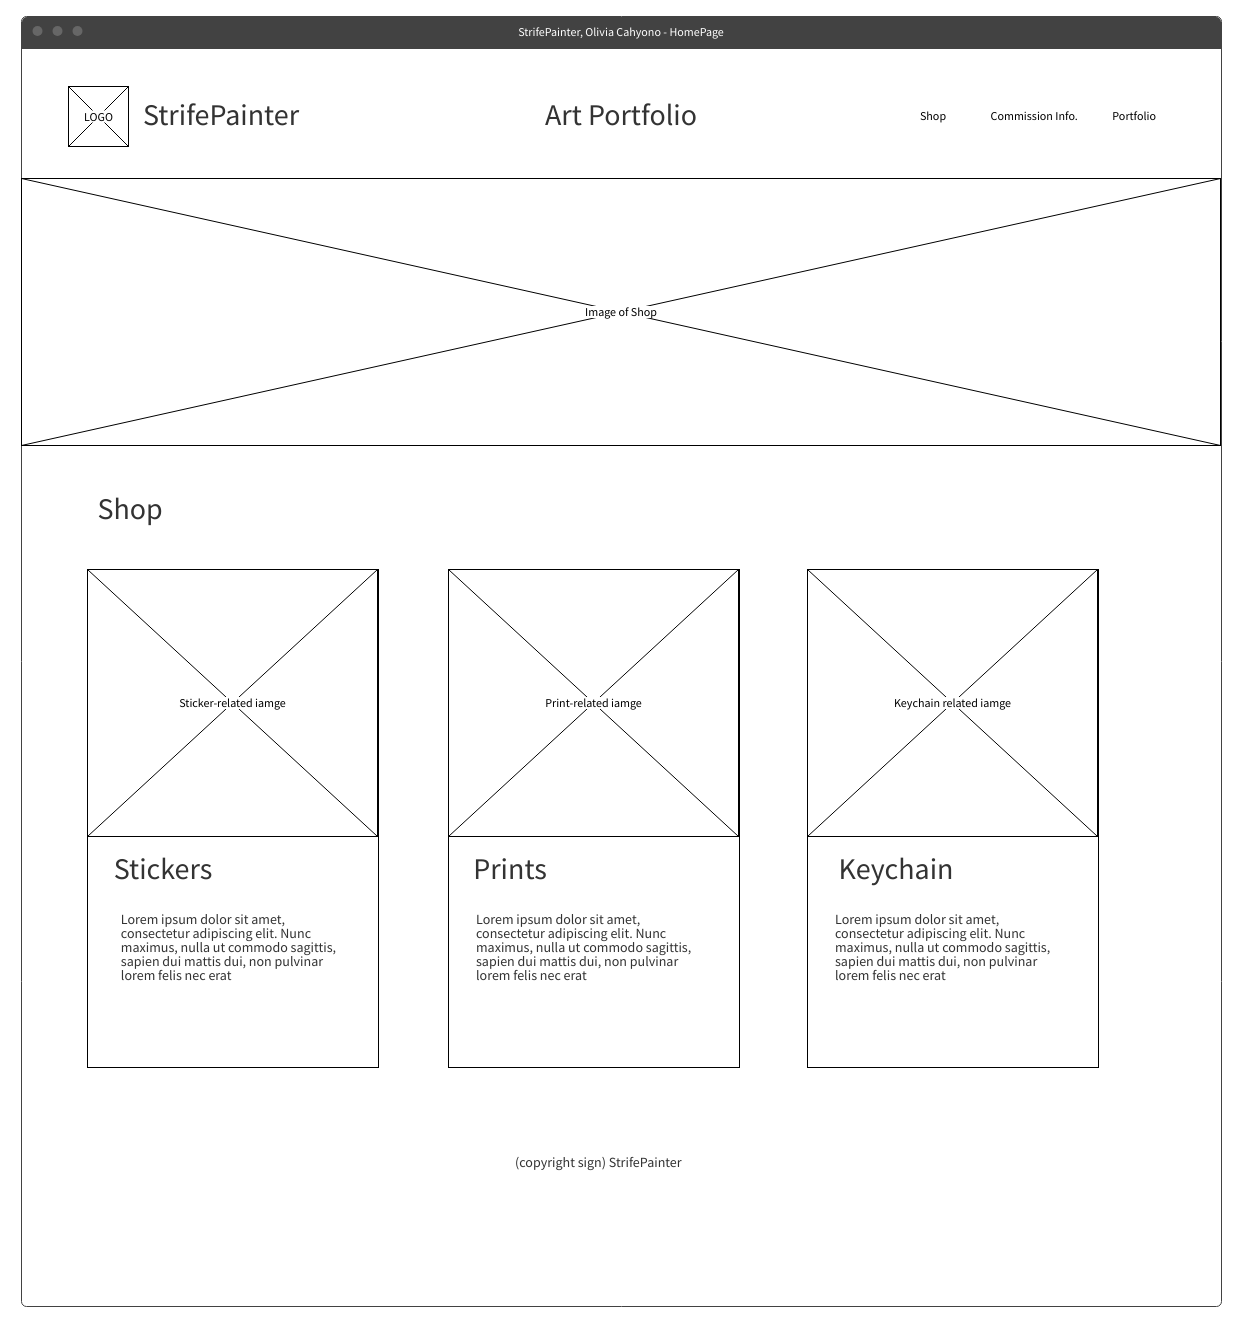
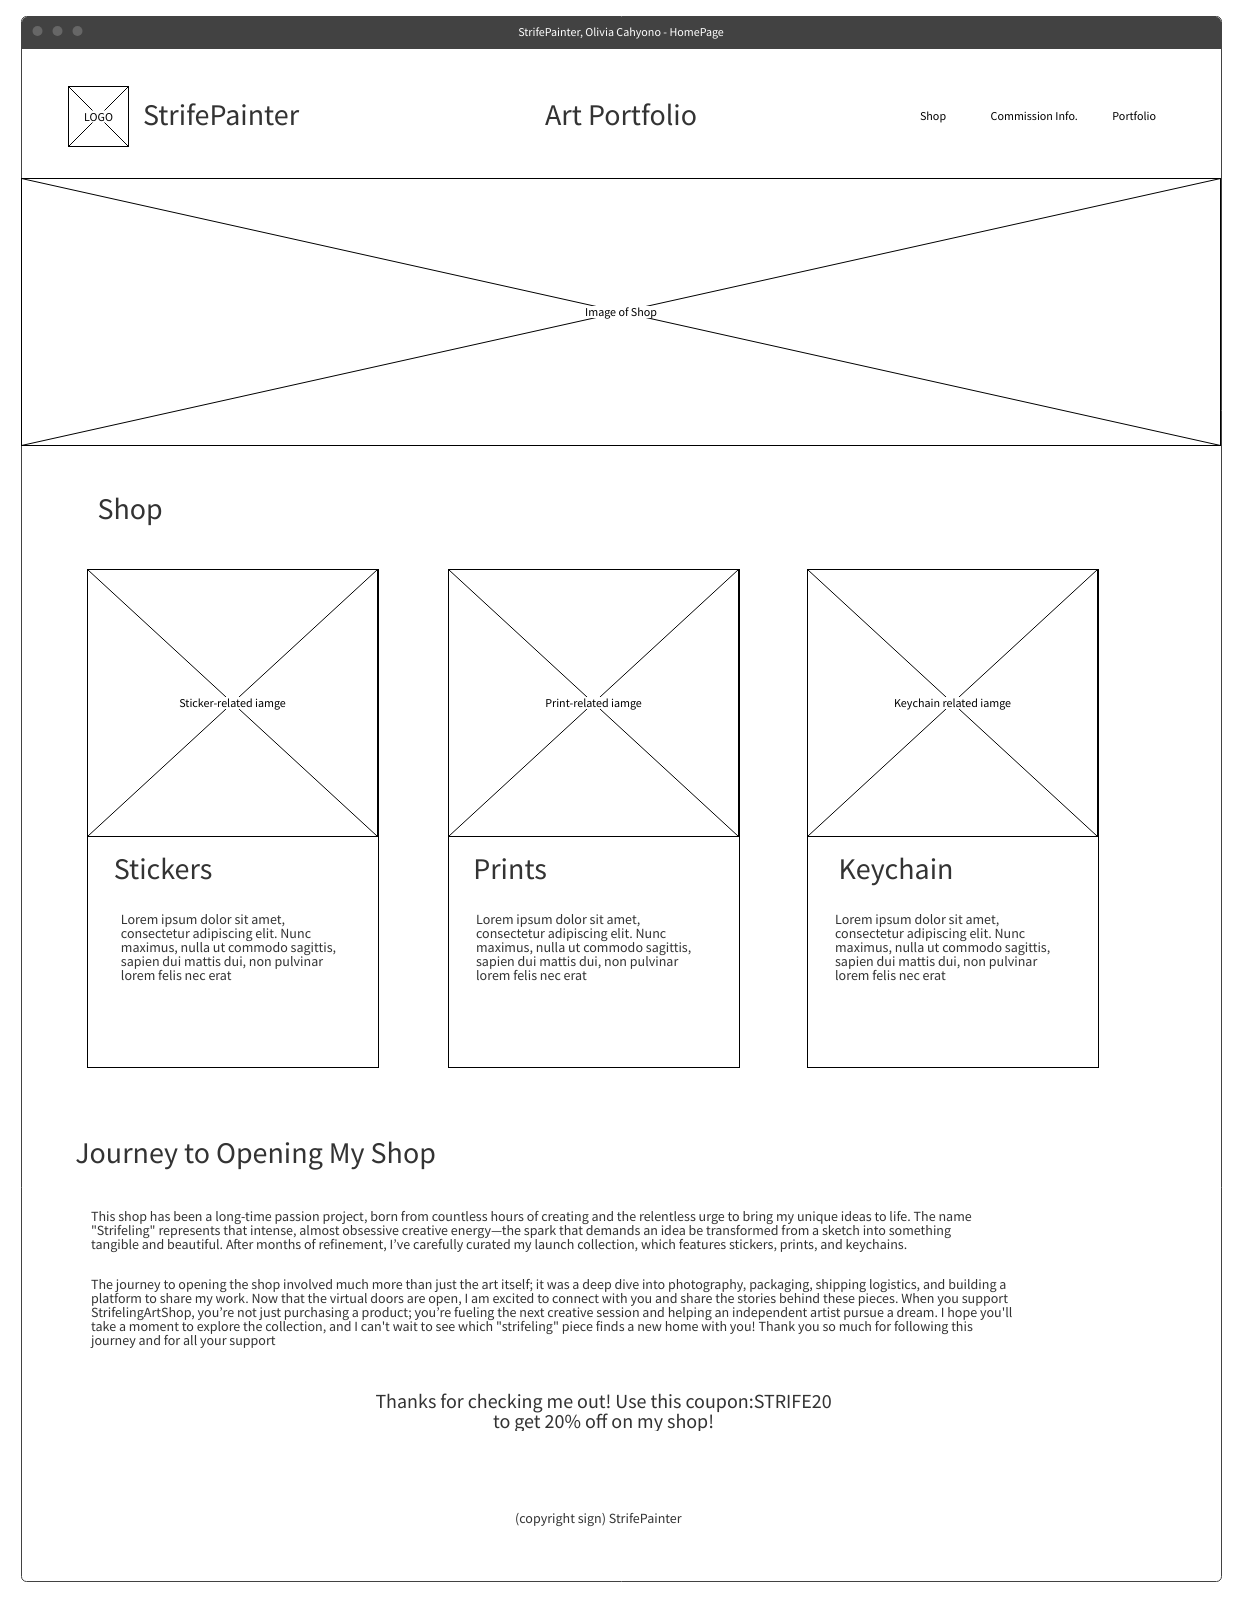
Adding article and aside tags

diff --git a/shop.html b/shop.html
@@ -47,7 +47,16 @@
         <p>Lorem ipsum, dolor sit amet consectetur adipisicing elit. Quia aut saepe praesentium adipisci quibusdam error, corporis maiores voluptatibus nobis? Maiores aliquid ullam earum eaque quasi adipisci alias voluptatem assumenda reiciendis.</p>
       </section>
     </section>
-    </main>
+
+    <article>
+      <h3>Journey to Opening my Shop</h3>
+      <p>This shop has been a long-time passion project, born from countless hours of creating and the relentless urge to bring my unique ideas to life. The name "Strifeling" represents that intense, almost obsessive creative energy—the spark that demands an idea be transformed from a sketch into something tangible and beautiful. After months of refinement, I’ve carefully curated my launch collection, which features stickers, prints, and keychains.<br>
+      The journey to opening the shop involved much more than just the art itself; it was a deep dive into photography, packaging, shipping logistics, and building a platform to share my work. Now that the virtual doors are open, I am excited to connect with you and share the stories behind these pieces. When you support StrifelingArtShop, you’re not just purchasing a product; you’re fueling the next creative session and helping an independent artist pursue a dream. I hope you'll take a moment to explore the collection, and I can't wait to see which "strifeling" piece finds a new home with you! Thank you so much for following this journey and for all your support!</p>
+    </article>
+
+    <aside>Thanks for checking me out! Use this coupon:STRIFE20 to get 20% off on my shop!</aside>
+
+  </main>
   
     <footer>
   <p>&copy; 2025 StrifePainter</p>

diff --git a/index.html b/index.html
@@ -82,12 +82,12 @@
       <img src="images/Cowboy_Bee.png" alt="Image of a cowboybee" width="3090" height="2477">
 
       <h3>Contact Me</h3>
-      <form action="submit_form.php" method="POST">
+      <form action="form.php" method="post">
         <label for="name">Name:</label>
-        <input type="text" id="name" name="user_name" required placeholder="Your Name">
+        <input type="text" id="name" name="text" required placeholder="Your Name">
 
-        <label for="email">Email:</label>
-        <input type="email" id="email" name="user_email" required placeholder="your.email@example.com">
+        <label>Email:</label>
+        <input id="Email" type="email" required placeholder="your.email@example.com">
 
         <label for="message">Message:</label>
         <textarea id="message" name="user_message" required placeholder="Write your message here..."></textarea>
